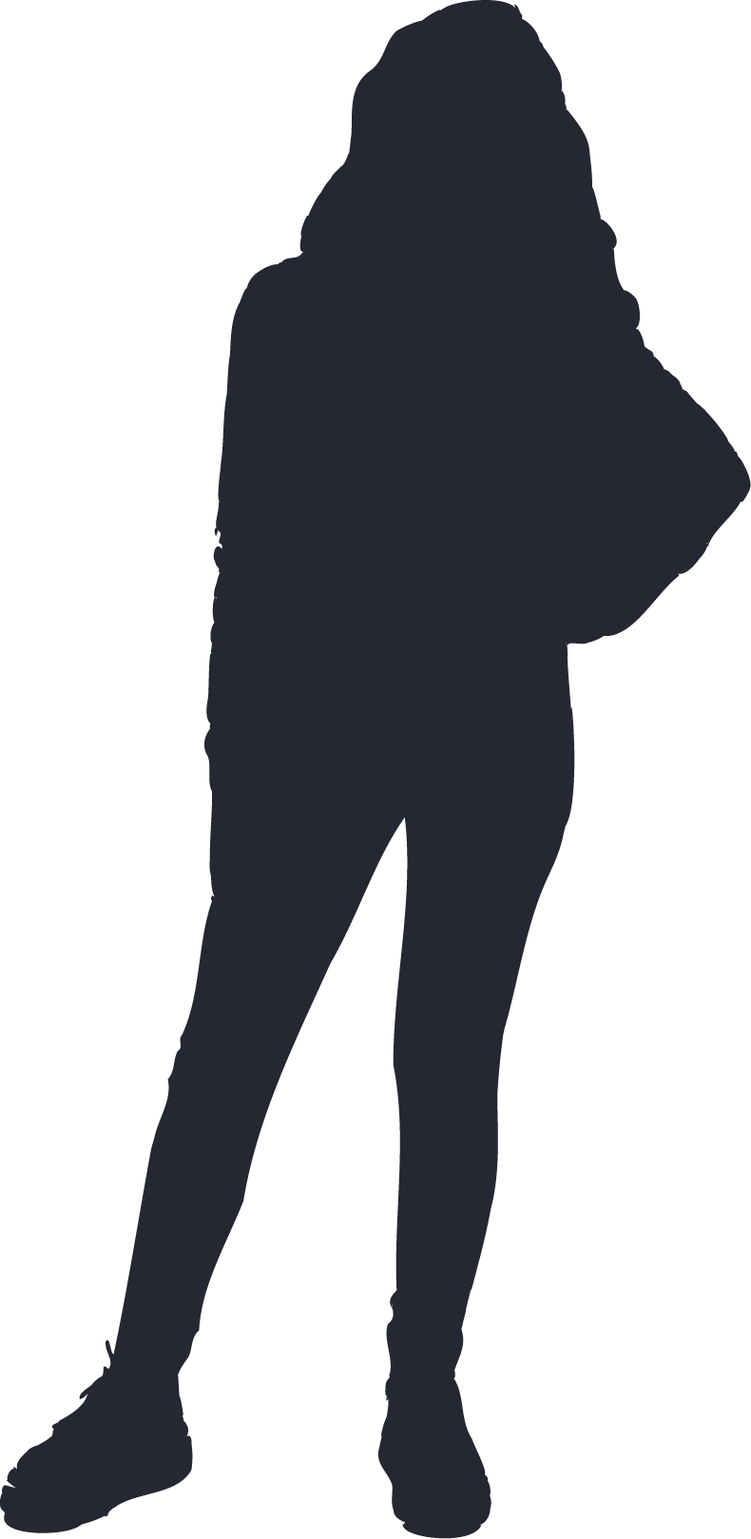
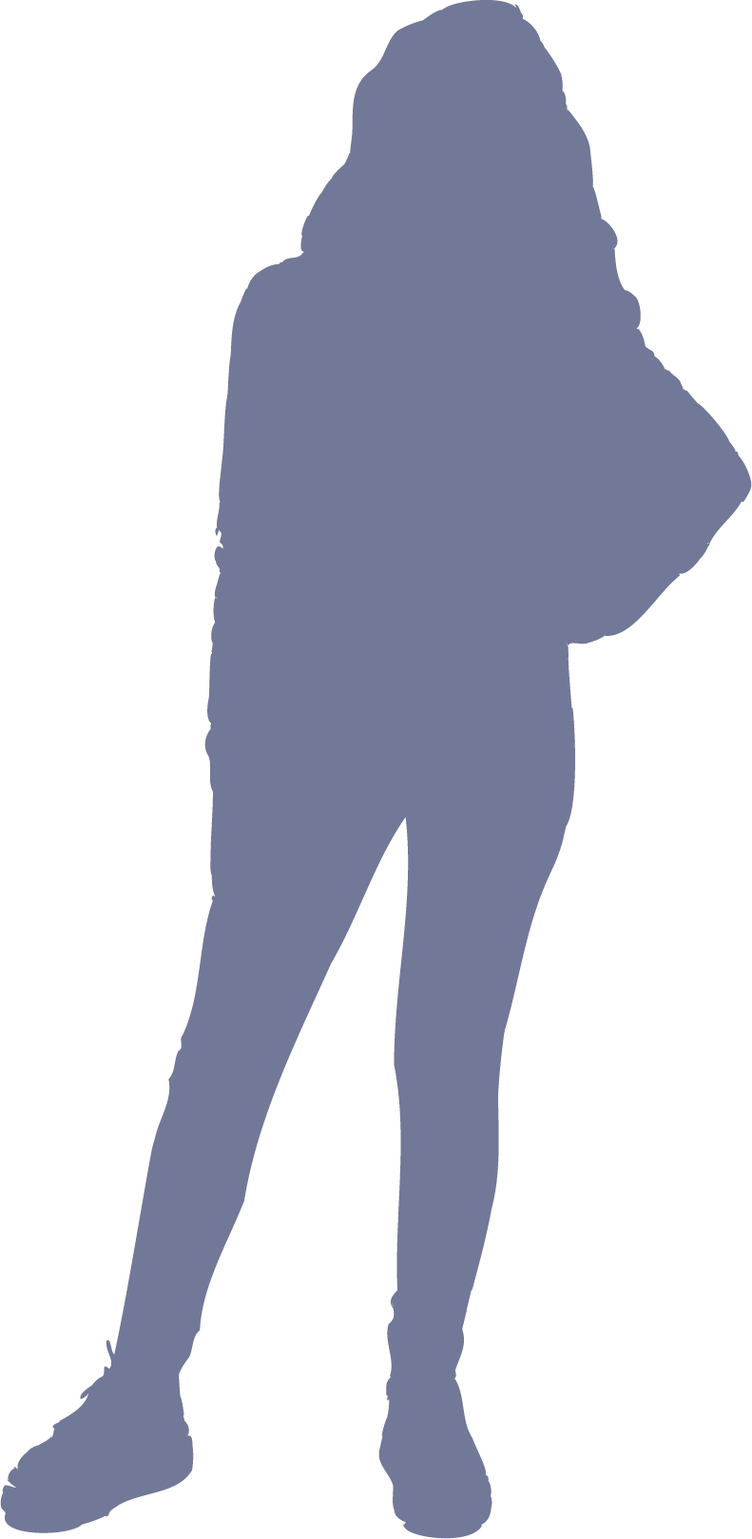
Botton dark mode vector y color sombra

diff --git a/master.html b/master.html
@@ -18,12 +18,19 @@
         <div class="border-dm">
             <div class="cover-dm">
                 <div class="button-vector">
-                    <svg class="vector" width="48" height="48" viewBox="0 0 48 48" fill="none"
+                    <svg class="vector moon" width="48" height="48" viewBox="0 0 48 48" fill="none"
                         xmlns="http://www.w3.org/2000/svg">
                         <g id="moon">
                             <path id="Vector"
                                 d="M36.0882 9.17485L31.092 13.0516L32.889 19.1665L27.6953 15.5495L22.5016 19.1665L24.2987 13.0516L19.3025 9.17485L25.6021 8.995L27.6953 3L29.7886 8.995L36.0882 9.17485ZM43 22.9833L39.7613 25.4813L40.9265 29.438L37.5693 27.0999L34.2122 29.438L35.3773 25.4813L32.1386 22.9833L36.2067 22.8834L37.5693 18.9867L38.9319 22.8834L43 22.9833ZM38.4975 32.8751C40.1365 32.7152 41.8941 35.0733 40.8475 36.572C40.2155 37.4713 39.5441 38.3106 38.7147 39.1099C30.9932 46.9634 18.4928 46.9634 10.7911 39.1099C3.06964 31.3164 3.06964 18.647 10.7911 10.8535C11.581 10.0541 12.4104 9.33472 13.2991 8.69525C14.7802 7.63614 17.1104 9.41465 16.9524 11.0733C16.4193 16.7885 18.3151 22.7236 22.6596 27.0999C26.9844 31.4963 32.8298 33.4147 38.4975 32.8751ZM35.2588 36.9117C29.6701 36.592 24.1407 34.254 19.8554 29.9775C15.5701 25.6012 13.2793 19.9858 12.9634 14.3505C7.41419 20.6253 7.63141 30.2573 13.5755 36.2923C19.5394 42.3072 29.0579 42.5271 35.2588 36.9117Z"
-                                fill="black" />
+                                fill="currentcolor" />
+                        </g>
+                    </svg>
+                    <svg class="vector sun" width="48" height="48" viewBox="0 0 48 48" fill="none" xmlns="http://www.w3.org/2000/svg">
+                        <g id="sun">
+                            <path id="Vector"
+                                d="M9.2042 36.1517C8.46476 36.8987 8.46643 38.1024 9.20796 38.8473C9.95428 39.597 11.1674 39.5987 11.9158 38.851L12.6433 38.1243C13.391 37.3774 13.3927 36.1661 12.6471 35.4172C11.8967 34.6633 10.6759 34.6651 9.92764 35.4209L9.2042 36.1517ZM22.0909 43.0909C22.0909 44.1453 23.1747 45 24.2291 45C25.2835 45 25.9091 44.1453 25.9091 43.0909V41.2516C25.9091 40.1972 25.0544 39.3425 24 39.3425C22.9456 39.3425 22.0909 40.1972 22.0909 41.2516V43.0909ZM24 12.4931C20.9621 12.4931 18.0486 13.7055 15.9004 15.8634C13.7523 18.0214 12.5455 20.9482 12.5455 24C12.5455 27.0518 13.7523 29.9786 15.9004 32.1366C18.0486 34.2945 20.9621 35.5068 24 35.5068C27.0379 35.5068 29.9514 34.2945 32.0996 32.1366C34.2477 29.9786 35.4545 27.0518 35.4545 24C35.4545 17.6329 30.3191 12.4931 24 12.4931ZM39.2727 24C39.2727 25.0592 40.1314 25.9178 41.1905 25.9178H43.0822C44.1414 25.9178 45 25.0592 45 24C45 22.9408 44.1414 22.0822 43.0822 22.0822H41.1905C40.1314 22.0822 39.2727 22.9408 39.2727 24ZM35.3529 35.4172C34.6073 36.1661 34.609 37.3774 35.3567 38.1243L36.0842 38.851C36.8326 39.5987 38.0457 39.597 38.792 38.8473C39.5336 38.1024 39.5352 36.8987 38.7958 36.1517L38.0724 35.4209C37.3241 34.665 36.1033 34.6633 35.3529 35.4172ZM38.7958 11.8483C39.5352 11.1013 39.5336 9.89764 38.792 9.15273C38.0457 8.403 36.8326 8.40131 36.0842 9.14896L35.3567 9.87572C34.609 10.6226 34.6073 11.8339 35.3529 12.5828C36.1033 13.3366 37.3241 13.3349 38.0724 12.5791L38.7958 11.8483ZM25.9091 4.90909C25.9091 3.85473 25.0544 3 24 3C22.9456 3 22.0909 3.85473 22.0909 4.90909V6.74844C22.0909 7.8028 22.9456 8.65753 24 8.65753C25.0544 8.65753 25.9091 7.8028 25.9091 6.74844V4.90909ZM8.72727 24C8.72727 22.9408 7.86864 22.0822 6.80946 22.0822H4.91781C3.85863 22.0822 3 22.9408 3 24C3 25.0592 3.85863 25.9178 4.91781 25.9178H6.80947C7.86864 25.9178 8.72727 25.0592 8.72727 24ZM12.6471 12.5828C13.3927 11.8339 13.391 10.6226 12.6433 9.87572L11.9158 9.14896C11.1674 8.40131 9.95428 8.403 9.20796 9.15273C8.46643 9.89764 8.46476 11.1013 9.20421 11.8483L9.92764 12.5791C10.6759 13.3349 11.8967 13.3366 12.6471 12.5828Z"
+                                fill="currentcolor" />
                         </g>
                     </svg>
                 </div>
@@ -59,10 +66,10 @@
                                 xmlns="http://www.w3.org/2000/svg">
                                 <path fill-rule="evenodd" clip-rule="evenodd"
                                     d="M24.719 6.95411C24.3259 6.54738 23.674 6.54738 23.2809 6.9541L19.5872 10.7759C19.1175 11.2618 18.4707 11.5362 17.7948 11.5362H12.5362C11.984 11.5362 11.5362 11.984 11.5362 12.5362V17.7948C11.5362 18.4707 11.2618 19.1175 10.7759 19.5872L6.9541 23.281C6.54738 23.674 6.54738 24.326 6.9541 24.7191L10.7759 28.4128C11.2618 28.8825 11.5362 29.5293 11.5362 30.2052V35.4638C11.5362 36.016 11.984 36.4638 12.5362 36.4638H17.7948C18.4707 36.4638 19.1175 36.7382 19.5872 37.2241L23.2809 41.0459C23.674 41.4526 24.3259 41.4526 24.719 41.0459L28.4128 37.2241C28.8824 36.7382 29.5293 36.4638 30.2052 36.4638H35.4638C36.016 36.4638 36.4638 36.016 36.4638 35.4638V30.2052C36.4638 29.5293 36.7382 28.8824 37.2242 28.4128L41.0459 24.7191C41.4526 24.326 41.4526 23.6741 41.0459 23.281L37.2242 19.5872C36.7382 19.1176 36.4638 18.4707 36.4638 17.7948V12.5362C36.4638 11.984 36.016 11.5362 35.4638 11.5362H30.2052C29.5293 11.5362 28.8824 11.2618 28.4128 10.7759L24.719 6.95411ZM22.2076 3.76039C23.1875 2.74654 24.8125 2.74654 25.7924 3.76039L30.4167 8.54494H36.9623C38.339 8.54494 39.4551 9.66099 39.4551 11.0377V17.5833L44.2396 22.2076C45.2535 23.1875 45.2535 24.8125 44.2396 25.7924L39.4551 30.4167V36.9623C39.4551 38.339 38.339 39.4551 36.9623 39.4551H30.4167L25.7924 44.2396C24.8125 45.2535 23.1875 45.2535 22.2076 44.2396L17.5833 39.4551H11.0377C9.66099 39.4551 8.54494 38.339 8.54494 36.9623V30.4167L3.76039 25.7924C2.74654 24.8125 2.74654 23.1875 3.76039 22.2076L8.54494 17.5833V11.0377C8.54494 9.66098 9.66099 8.54494 11.0377 8.54494H17.5833L22.2076 3.76039Z"
-                                    fill="black" />
+                                    fill="currentcolor" />
                                 <path fill-rule="evenodd" clip-rule="evenodd"
                                     d="M14.5275 24C14.5275 18.7685 18.7685 14.5275 24 14.5275C29.2315 14.5275 33.4725 18.7685 33.4725 24C33.4725 29.2315 29.2315 33.4725 24 33.4725C18.7685 33.4725 14.5275 29.2315 14.5275 24ZM24 17.5188C20.4206 17.5188 17.5188 20.4206 17.5188 24C17.5188 27.5794 20.4206 30.4812 24 30.4812C27.5794 30.4812 30.4812 27.5794 30.4812 24C30.4812 20.4206 27.5794 17.5188 24 17.5188Z"
-                                    fill="black" />
+                                    fill="currentcolor" />
                             </svg>
                             <p class="texts tipo-Raleway">Managament</p>
                         </div>
@@ -78,17 +85,17 @@
                                     xmlns="http://www.w3.org/2000/svg">
                                     <path fill-rule="evenodd" clip-rule="evenodd"
                                         d="M24.719 6.95411C24.3259 6.54738 23.674 6.54738 23.2809 6.9541L19.5872 10.7759C19.1175 11.2618 18.4707 11.5362 17.7948 11.5362H12.5362C11.984 11.5362 11.5362 11.984 11.5362 12.5362V17.7948C11.5362 18.4707 11.2618 19.1175 10.7759 19.5872L6.9541 23.281C6.54738 23.674 6.54738 24.326 6.9541 24.7191L10.7759 28.4128C11.2618 28.8825 11.5362 29.5293 11.5362 30.2052V35.4638C11.5362 36.016 11.984 36.4638 12.5362 36.4638H17.7948C18.4707 36.4638 19.1175 36.7382 19.5872 37.2241L23.2809 41.0459C23.674 41.4526 24.3259 41.4526 24.719 41.0459L28.4128 37.2241C28.8824 36.7382 29.5293 36.4638 30.2052 36.4638H35.4638C36.016 36.4638 36.4638 36.016 36.4638 35.4638V30.2052C36.4638 29.5293 36.7382 28.8824 37.2242 28.4128L41.0459 24.7191C41.4526 24.326 41.4526 23.6741 41.0459 23.281L37.2242 19.5872C36.7382 19.1176 36.4638 18.4707 36.4638 17.7948V12.5362C36.4638 11.984 36.016 11.5362 35.4638 11.5362H30.2052C29.5293 11.5362 28.8824 11.2618 28.4128 10.7759L24.719 6.95411ZM22.2076 3.76039C23.1875 2.74654 24.8125 2.74654 25.7924 3.76039L30.4167 8.54494H36.9623C38.339 8.54494 39.4551 9.66099 39.4551 11.0377V17.5833L44.2396 22.2076C45.2535 23.1875 45.2535 24.8125 44.2396 25.7924L39.4551 30.4167V36.9623C39.4551 38.339 38.339 39.4551 36.9623 39.4551H30.4167L25.7924 44.2396C24.8125 45.2535 23.1875 45.2535 22.2076 44.2396L17.5833 39.4551H11.0377C9.66099 39.4551 8.54494 38.339 8.54494 36.9623V30.4167L3.76039 25.7924C2.74654 24.8125 2.74654 23.1875 3.76039 22.2076L8.54494 17.5833V11.0377C8.54494 9.66098 9.66099 8.54494 11.0377 8.54494H17.5833L22.2076 3.76039Z"
-                                        fill="black" />
+                                        fill="currentcolor" />
                                     <path fill-rule="evenodd" clip-rule="evenodd"
                                         d="M14.5275 24C14.5275 18.7685 18.7685 14.5275 24 14.5275C29.2315 14.5275 33.4725 18.7685 33.4725 24C33.4725 29.2315 29.2315 33.4725 24 33.4725C18.7685 33.4725 14.5275 29.2315 14.5275 24ZM24 17.5188C20.4206 17.5188 17.5188 20.4206 17.5188 24C17.5188 27.5794 20.4206 30.4812 24 30.4812C27.5794 30.4812 30.4812 27.5794 30.4812 24C30.4812 20.4206 27.5794 17.5188 24 17.5188Z"
-                                        fill="black" />
+                                        fill="currentcolor" />
                                 </svg>
                                 <h3 class="text-modal tipo-Raleway">Managament</h3>
                                 <label for="modal-checkbox-m">
-                                    <svg class="close" width="48" height="48" viewBox="0 0 48 48" fill="#ADB0C2"
+                                    <svg class="close" width="48" height="48" viewBox="0 0 48 48"
                                         xmlns="http://www.w3.org/2000/svg">
                                         <path
-                                            d="M24 3C35.613 3 45 12.387 45 24C45 35.613 35.613 45 24 45C12.387 45 3 35.613 3 24C3 12.387 12.387 3 24 3ZM33.0195 14.9805C32.2018 14.1628 30.8762 14.1628 30.0585 14.9805L24.7071 20.3319C24.3166 20.7224 23.6834 20.7224 23.2929 20.3319L17.9415 14.9805C17.1238 14.1628 15.7982 14.1628 14.9805 14.9805V14.9805C14.1628 15.7982 14.1628 17.1238 14.9805 17.9415L20.3319 23.2929C20.7224 23.6834 20.7224 24.3166 20.3319 24.7071L14.9805 30.0585C14.1628 30.8762 14.1628 32.2018 14.9805 33.0195V33.0195C15.7982 33.8372 17.1238 33.8372 17.9415 33.0195L23.2929 27.6681C23.6834 27.2776 24.3166 27.2776 24.7071 27.6681L30.0585 33.0195C30.8762 33.8372 32.2018 33.8372 33.0195 33.0195V33.0195C33.8372 32.2018 33.8372 30.8762 33.0195 30.0585L27.6681 24.7071C27.2776 24.3166 27.2776 23.6834 27.6681 23.2929L33.0195 17.9415C33.8372 17.1238 33.8372 15.7982 33.0195 14.9805V14.9805Z" />
+                                            d="M24 3C35.613 3 45 12.387 45 24C45 35.613 35.613 45 24 45C12.387 45 3 35.613 3 24C3 12.387 12.387 3 24 3ZM33.0195 14.9805C32.2018 14.1628 30.8762 14.1628 30.0585 14.9805L24.7071 20.3319C24.3166 20.7224 23.6834 20.7224 23.2929 20.3319L17.9415 14.9805C17.1238 14.1628 15.7982 14.1628 14.9805 14.9805V14.9805C14.1628 15.7982 14.1628 17.1238 14.9805 17.9415L20.3319 23.2929C20.7224 23.6834 20.7224 24.3166 20.3319 24.7071L14.9805 30.0585C14.1628 30.8762 14.1628 32.2018 14.9805 33.0195V33.0195C15.7982 33.8372 17.1238 33.8372 17.9415 33.0195L23.2929 27.6681C23.6834 27.2776 24.3166 27.2776 24.7071 27.6681L30.0585 33.0195C30.8762 33.8372 32.2018 33.8372 33.0195 33.0195V33.0195C33.8372 32.2018 33.8372 30.8762 33.0195 30.0585L27.6681 24.7071C27.2776 24.3166 27.2776 23.6834 27.6681 23.2929L33.0195 17.9415C33.8372 17.1238 33.8372 15.7982 33.0195 14.9805V14.9805Z" fill="currentcolor"/>
                                     </svg>
                                 </label>
                             </div>
@@ -147,16 +154,16 @@
                                 xmlns="http://www.w3.org/2000/svg">
                                 <path
                                     d="M31.3163 16.1965C32.3074 16.1965 33.1109 17.0039 33.1109 18C33.1109 18.9961 32.3074 19.8035 31.3163 19.8035H18.1559C17.1648 19.8035 16.3613 18.9961 16.3613 18C16.3613 17.0039 17.1648 16.1965 18.1559 16.1965H31.3163Z"
-                                    fill="black" />
+                                    fill="currentcolor" />
                                 <path fill-rule="evenodd" clip-rule="evenodd"
                                     d="M6.33689 30.7844C0.958203 17.5165 10.6708 3 24.9267 3H25.6958C36.3572 3 45 11.6858 45 22.4002C45 34.3294 35.3773 44 23.507 44H4.7947C4.03317 44 3.35457 43.517 3.10182 42.7951C2.84908 42.0731 3.07723 41.2695 3.67099 40.7903L8.38837 36.983C8.59463 36.8165 8.6676 36.5336 8.56779 36.2874L6.33689 30.7844ZM24.9267 6.60704C13.2198 6.60704 5.24386 18.5279 9.66082 29.4235L11.8917 34.9265C12.5904 36.65 12.0797 38.63 10.6358 39.7954L9.89535 40.393H23.507C33.395 40.393 41.4108 32.3373 41.4108 22.4002C41.4108 13.6779 34.3749 6.60704 25.6958 6.60704H24.9267Z"
-                                    fill="black" />
+                                    fill="currentcolor" />
                                 <path
                                     d="M31.455 22.8035C32.4461 22.8035 33.2496 23.611 33.2496 24.607C33.2496 25.6031 32.4461 26.4106 31.455 26.4106H18.2946C17.3035 26.4106 16.5 25.6031 16.5 24.607C16.5 23.611 17.3035 22.8035 18.2946 22.8035H31.455Z"
-                                    fill="black" />
+                                    fill="currentcolor" />
                                 <path
                                     d="M31.455 29.4235C32.4461 29.4235 33.2496 30.2309 33.2496 31.227C33.2496 32.223 32.4461 33.0305 31.455 33.0305H18.2946C17.3035 33.0305 16.5 32.223 16.5 31.227C16.5 30.2309 17.3035 29.4235 18.2946 29.4235H31.455Z"
-                                    fill="black" />
+                                    fill="currentcolor" />
                             </svg>
 
                             <p class="texts tipo-Raleway">Communication</p>
@@ -173,24 +180,24 @@
                                     xmlns="http://www.w3.org/2000/svg">
                                     <path
                                         d="M31.3163 16.1965C32.3074 16.1965 33.1109 17.0039 33.1109 18C33.1109 18.9961 32.3074 19.8035 31.3163 19.8035H18.1559C17.1648 19.8035 16.3613 18.9961 16.3613 18C16.3613 17.0039 17.1648 16.1965 18.1559 16.1965H31.3163Z"
-                                        fill="black" />
+                                        fill="currentcolor" />
                                     <path fill-rule="evenodd" clip-rule="evenodd"
                                         d="M6.33689 30.7844C0.958203 17.5165 10.6708 3 24.9267 3H25.6958C36.3572 3 45 11.6858 45 22.4002C45 34.3294 35.3773 44 23.507 44H4.7947C4.03317 44 3.35457 43.517 3.10182 42.7951C2.84908 42.0731 3.07723 41.2695 3.67099 40.7903L8.38837 36.983C8.59463 36.8165 8.6676 36.5336 8.56779 36.2874L6.33689 30.7844ZM24.9267 6.60704C13.2198 6.60704 5.24386 18.5279 9.66082 29.4235L11.8917 34.9265C12.5904 36.65 12.0797 38.63 10.6358 39.7954L9.89535 40.393H23.507C33.395 40.393 41.4108 32.3373 41.4108 22.4002C41.4108 13.6779 34.3749 6.60704 25.6958 6.60704H24.9267Z"
-                                        fill="black" />
+                                        fill="currentcolor" />
                                     <path
                                         d="M31.455 22.8035C32.4461 22.8035 33.2496 23.611 33.2496 24.607C33.2496 25.6031 32.4461 26.4106 31.455 26.4106H18.2946C17.3035 26.4106 16.5 25.6031 16.5 24.607C16.5 23.611 17.3035 22.8035 18.2946 22.8035H31.455Z"
-                                        fill="black" />
+                                        fill="currentcolor" />
                                     <path
                                         d="M31.455 29.4235C32.4461 29.4235 33.2496 30.2309 33.2496 31.227C33.2496 32.223 32.4461 33.0305 31.455 33.0305H18.2946C17.3035 33.0305 16.5 32.223 16.5 31.227C16.5 30.2309 17.3035 29.4235 18.2946 29.4235H31.455Z"
-                                        fill="black" />
+                                        fill="currentcolor" />
                                 </svg>
 
                                 <h3 class="text-modal tipo-Raleway">Communication</h3>
                                 <label for="modal-checkbox-c">
-                                    <svg class="close" width="48" height="48" viewBox="0 0 48 48" fill="#ADB0C2"
+                                    <svg class="close" width="48" height="48" viewBox="0 0 48 48"
                                         xmlns="http://www.w3.org/2000/svg">
                                         <path
-                                            d="M24 3C35.613 3 45 12.387 45 24C45 35.613 35.613 45 24 45C12.387 45 3 35.613 3 24C3 12.387 12.387 3 24 3ZM33.0195 14.9805C32.2018 14.1628 30.8762 14.1628 30.0585 14.9805L24.7071 20.3319C24.3166 20.7224 23.6834 20.7224 23.2929 20.3319L17.9415 14.9805C17.1238 14.1628 15.7982 14.1628 14.9805 14.9805V14.9805C14.1628 15.7982 14.1628 17.1238 14.9805 17.9415L20.3319 23.2929C20.7224 23.6834 20.7224 24.3166 20.3319 24.7071L14.9805 30.0585C14.1628 30.8762 14.1628 32.2018 14.9805 33.0195V33.0195C15.7982 33.8372 17.1238 33.8372 17.9415 33.0195L23.2929 27.6681C23.6834 27.2776 24.3166 27.2776 24.7071 27.6681L30.0585 33.0195C30.8762 33.8372 32.2018 33.8372 33.0195 33.0195V33.0195C33.8372 32.2018 33.8372 30.8762 33.0195 30.0585L27.6681 24.7071C27.2776 24.3166 27.2776 23.6834 27.6681 23.2929L33.0195 17.9415C33.8372 17.1238 33.8372 15.7982 33.0195 14.9805V14.9805Z" />
+                                            d="M24 3C35.613 3 45 12.387 45 24C45 35.613 35.613 45 24 45C12.387 45 3 35.613 3 24C3 12.387 12.387 3 24 3ZM33.0195 14.9805C32.2018 14.1628 30.8762 14.1628 30.0585 14.9805L24.7071 20.3319C24.3166 20.7224 23.6834 20.7224 23.2929 20.3319L17.9415 14.9805C17.1238 14.1628 15.7982 14.1628 14.9805 14.9805V14.9805C14.1628 15.7982 14.1628 17.1238 14.9805 17.9415L20.3319 23.2929C20.7224 23.6834 20.7224 24.3166 20.3319 24.7071L14.9805 30.0585C14.1628 30.8762 14.1628 32.2018 14.9805 33.0195V33.0195C15.7982 33.8372 17.1238 33.8372 17.9415 33.0195L23.2929 27.6681C23.6834 27.2776 24.3166 27.2776 24.7071 27.6681L30.0585 33.0195C30.8762 33.8372 32.2018 33.8372 33.0195 33.0195V33.0195C33.8372 32.2018 33.8372 30.8762 33.0195 30.0585L27.6681 24.7071C27.2776 24.3166 27.2776 23.6834 27.6681 23.2929L33.0195 17.9415C33.8372 17.1238 33.8372 15.7982 33.0195 14.9805V14.9805Z" fill="currentcolor"/>
                                     </svg>
                                 </label>
                             </div>
@@ -243,7 +250,7 @@
                                 xmlns="http://www.w3.org/2000/svg">
                                 <path fill-rule="evenodd" clip-rule="evenodd"
                                     d="M24 6L39.2583 6.43549C41.9544 6.51244 44.1844 8.5785 44.491 11.2835C45.1697 17.2713 45.1697 23.3177 44.491 29.3055C44.1844 32.0105 41.9544 34.0765 39.2583 34.1535L27.6711 34.4842V38.8236H34.4888C35.3578 38.8236 36.0622 39.5347 36.0622 40.4118C36.0622 41.2889 35.3578 42 34.4888 42H13.5112C12.6423 42 11.9379 41.2889 11.9379 40.4118C11.9379 39.5347 12.6423 38.8236 13.5112 38.8236H20.3289V34.4842L8.74165 34.1535C6.04557 34.0765 3.81561 32.0105 3.50901 29.3055C2.83033 23.3177 2.83033 17.2713 3.50901 11.2835C3.81561 8.5785 6.04557 6.51244 8.74165 6.43549L24 6ZM24 9.17768L8.83059 9.61064C7.69946 9.64292 6.76389 10.5097 6.63526 11.6446C5.98377 17.3925 5.98377 23.1965 6.63526 28.9444C6.76389 30.0793 7.69946 30.9461 8.83059 30.9784L24 31.4113L39.1694 30.9784C40.3005 30.9461 41.2361 30.0793 41.3647 28.9444C42.0162 23.1965 42.0162 17.3925 41.3647 11.6446C41.2361 10.5097 40.3005 9.64292 39.1694 9.61064L24 9.17768Z"
-                                    fill="black" />
+                                    fill="currentcolor" />
                             </svg>
                             <p class="texts tipo-Raleway">Technology</p>
                         </div>
@@ -259,14 +266,14 @@
                                     xmlns="http://www.w3.org/2000/svg">
                                     <path fill-rule="evenodd" clip-rule="evenodd"
                                         d="M24 6L39.2583 6.43549C41.9544 6.51244 44.1844 8.5785 44.491 11.2835C45.1697 17.2713 45.1697 23.3177 44.491 29.3055C44.1844 32.0105 41.9544 34.0765 39.2583 34.1535L27.6711 34.4842V38.8236H34.4888C35.3578 38.8236 36.0622 39.5347 36.0622 40.4118C36.0622 41.2889 35.3578 42 34.4888 42H13.5112C12.6423 42 11.9379 41.2889 11.9379 40.4118C11.9379 39.5347 12.6423 38.8236 13.5112 38.8236H20.3289V34.4842L8.74165 34.1535C6.04557 34.0765 3.81561 32.0105 3.50901 29.3055C2.83033 23.3177 2.83033 17.2713 3.50901 11.2835C3.81561 8.5785 6.04557 6.51244 8.74165 6.43549L24 6ZM24 9.17768L8.83059 9.61064C7.69946 9.64292 6.76389 10.5097 6.63526 11.6446C5.98377 17.3925 5.98377 23.1965 6.63526 28.9444C6.76389 30.0793 7.69946 30.9461 8.83059 30.9784L24 31.4113L39.1694 30.9784C40.3005 30.9461 41.2361 30.0793 41.3647 28.9444C42.0162 23.1965 42.0162 17.3925 41.3647 11.6446C41.2361 10.5097 40.3005 9.64292 39.1694 9.61064L24 9.17768Z"
-                                        fill="black" />
+                                        fill="currentcolor" />
                                 </svg>
                                 <h3 class="text-modal tipo-Raleway">Technology</h3>
                                 <label for="modal-checkbox-t">
-                                    <svg class="close" width="48" height="48" viewBox="0 0 48 48" fill="#ADB0C2"
+                                    <svg class="close" width="48" height="48" viewBox="0 0 48 48"
                                         xmlns="http://www.w3.org/2000/svg">
                                         <path
-                                            d="M24 3C35.613 3 45 12.387 45 24C45 35.613 35.613 45 24 45C12.387 45 3 35.613 3 24C3 12.387 12.387 3 24 3ZM33.0195 14.9805C32.2018 14.1628 30.8762 14.1628 30.0585 14.9805L24.7071 20.3319C24.3166 20.7224 23.6834 20.7224 23.2929 20.3319L17.9415 14.9805C17.1238 14.1628 15.7982 14.1628 14.9805 14.9805V14.9805C14.1628 15.7982 14.1628 17.1238 14.9805 17.9415L20.3319 23.2929C20.7224 23.6834 20.7224 24.3166 20.3319 24.7071L14.9805 30.0585C14.1628 30.8762 14.1628 32.2018 14.9805 33.0195V33.0195C15.7982 33.8372 17.1238 33.8372 17.9415 33.0195L23.2929 27.6681C23.6834 27.2776 24.3166 27.2776 24.7071 27.6681L30.0585 33.0195C30.8762 33.8372 32.2018 33.8372 33.0195 33.0195V33.0195C33.8372 32.2018 33.8372 30.8762 33.0195 30.0585L27.6681 24.7071C27.2776 24.3166 27.2776 23.6834 27.6681 23.2929L33.0195 17.9415C33.8372 17.1238 33.8372 15.7982 33.0195 14.9805V14.9805Z" />
+                                            d="M24 3C35.613 3 45 12.387 45 24C45 35.613 35.613 45 24 45C12.387 45 3 35.613 3 24C3 12.387 12.387 3 24 3ZM33.0195 14.9805C32.2018 14.1628 30.8762 14.1628 30.0585 14.9805L24.7071 20.3319C24.3166 20.7224 23.6834 20.7224 23.2929 20.3319L17.9415 14.9805C17.1238 14.1628 15.7982 14.1628 14.9805 14.9805V14.9805C14.1628 15.7982 14.1628 17.1238 14.9805 17.9415L20.3319 23.2929C20.7224 23.6834 20.7224 24.3166 20.3319 24.7071L14.9805 30.0585C14.1628 30.8762 14.1628 32.2018 14.9805 33.0195V33.0195C15.7982 33.8372 17.1238 33.8372 17.9415 33.0195L23.2929 27.6681C23.6834 27.2776 24.3166 27.2776 24.7071 27.6681L30.0585 33.0195C30.8762 33.8372 32.2018 33.8372 33.0195 33.0195V33.0195C33.8372 32.2018 33.8372 30.8762 33.0195 30.0585L27.6681 24.7071C27.2776 24.3166 27.2776 23.6834 27.6681 23.2929L33.0195 17.9415C33.8372 17.1238 33.8372 15.7982 33.0195 14.9805V14.9805Z" fill="currentcolor"/>
                                     </svg>
                                 </label>
                             </div>
@@ -337,7 +344,7 @@
                                 xmlns="http://www.w3.org/2000/svg">
                                 <path fill-rule="evenodd" clip-rule="evenodd"
                                     d="M25.7789 12.2047C22.8195 12.2047 20.2596 14.1326 19.0522 16.9345C18.7276 17.6879 17.9399 18.0351 17.2434 17.7318C16.3067 17.3238 15.2864 17.0992 14.2159 17.0992C9.60294 17.0992 5.86343 21.2845 5.86343 26.4472C5.86343 31.61 9.60294 35.7953 14.2159 35.7953H36.4525C39.5917 35.7953 42.1366 32.9471 42.1366 29.4337C42.1366 25.9203 39.5917 23.0721 36.4525 23.0721C35.9418 23.0721 35.4488 23.1472 34.981 23.287C34.5225 23.424 34.0331 23.2979 33.6743 22.9501C33.3155 22.6024 33.1341 22.0782 33.1898 21.5507C33.2242 21.2255 33.2419 20.8941 33.2419 20.5573C33.2419 15.9443 29.9006 12.2047 25.7789 12.2047ZM17.0896 14.3107C18.9255 11.1182 22.1301 9 25.7789 9C31.2777 9 35.7726 13.8102 36.0877 19.876C36.2087 19.8703 36.3304 19.8674 36.4525 19.8674C41.1732 19.8674 45 24.1504 45 29.4337C45 34.717 41.1732 39 36.4525 39H14.2159C8.02151 39 3 33.3799 3 26.4472C3 19.5145 8.02151 13.8945 14.2159 13.8945C15.2079 13.8945 16.1713 14.039 17.0896 14.3107Z"
-                                    fill="black" />
+                                    fill="currentcolor" />
                             </svg>
                             <p class="texts tipo-Raleway">Soft</p>
                         </div>
@@ -353,14 +360,14 @@
                                     xmlns="http://www.w3.org/2000/svg">
                                     <path fill-rule="evenodd" clip-rule="evenodd"
                                         d="M25.7789 12.2047C22.8195 12.2047 20.2596 14.1326 19.0522 16.9345C18.7276 17.6879 17.9399 18.0351 17.2434 17.7318C16.3067 17.3238 15.2864 17.0992 14.2159 17.0992C9.60294 17.0992 5.86343 21.2845 5.86343 26.4472C5.86343 31.61 9.60294 35.7953 14.2159 35.7953H36.4525C39.5917 35.7953 42.1366 32.9471 42.1366 29.4337C42.1366 25.9203 39.5917 23.0721 36.4525 23.0721C35.9418 23.0721 35.4488 23.1472 34.981 23.287C34.5225 23.424 34.0331 23.2979 33.6743 22.9501C33.3155 22.6024 33.1341 22.0782 33.1898 21.5507C33.2242 21.2255 33.2419 20.8941 33.2419 20.5573C33.2419 15.9443 29.9006 12.2047 25.7789 12.2047ZM17.0896 14.3107C18.9255 11.1182 22.1301 9 25.7789 9C31.2777 9 35.7726 13.8102 36.0877 19.876C36.2087 19.8703 36.3304 19.8674 36.4525 19.8674C41.1732 19.8674 45 24.1504 45 29.4337C45 34.717 41.1732 39 36.4525 39H14.2159C8.02151 39 3 33.3799 3 26.4472C3 19.5145 8.02151 13.8945 14.2159 13.8945C15.2079 13.8945 16.1713 14.039 17.0896 14.3107Z"
-                                        fill="black" />
+                                        fill="currentcolor" />
                                 </svg>
                                 <h3 class="text-modal tipo-Raleway">Soft</h3>
                                 <label for="modal-checkbox-s">
-                                    <svg class="close" width="48" height="48" viewBox="0 0 48 48" fill="#ADB0C2"
+                                    <svg class="close" width="48" height="48" viewBox="0 0 48 48"
                                         xmlns="http://www.w3.org/2000/svg">
                                         <path
-                                            d="M24 3C35.613 3 45 12.387 45 24C45 35.613 35.613 45 24 45C12.387 45 3 35.613 3 24C3 12.387 12.387 3 24 3ZM33.0195 14.9805C32.2018 14.1628 30.8762 14.1628 30.0585 14.9805L24.7071 20.3319C24.3166 20.7224 23.6834 20.7224 23.2929 20.3319L17.9415 14.9805C17.1238 14.1628 15.7982 14.1628 14.9805 14.9805V14.9805C14.1628 15.7982 14.1628 17.1238 14.9805 17.9415L20.3319 23.2929C20.7224 23.6834 20.7224 24.3166 20.3319 24.7071L14.9805 30.0585C14.1628 30.8762 14.1628 32.2018 14.9805 33.0195V33.0195C15.7982 33.8372 17.1238 33.8372 17.9415 33.0195L23.2929 27.6681C23.6834 27.2776 24.3166 27.2776 24.7071 27.6681L30.0585 33.0195C30.8762 33.8372 32.2018 33.8372 33.0195 33.0195V33.0195C33.8372 32.2018 33.8372 30.8762 33.0195 30.0585L27.6681 24.7071C27.2776 24.3166 27.2776 23.6834 27.6681 23.2929L33.0195 17.9415C33.8372 17.1238 33.8372 15.7982 33.0195 14.9805V14.9805Z" />
+                                            d="M24 3C35.613 3 45 12.387 45 24C45 35.613 35.613 45 24 45C12.387 45 3 35.613 3 24C3 12.387 12.387 3 24 3ZM33.0195 14.9805C32.2018 14.1628 30.8762 14.1628 30.0585 14.9805L24.7071 20.3319C24.3166 20.7224 23.6834 20.7224 23.2929 20.3319L17.9415 14.9805C17.1238 14.1628 15.7982 14.1628 14.9805 14.9805V14.9805C14.1628 15.7982 14.1628 17.1238 14.9805 17.9415L20.3319 23.2929C20.7224 23.6834 20.7224 24.3166 20.3319 24.7071L14.9805 30.0585C14.1628 30.8762 14.1628 32.2018 14.9805 33.0195V33.0195C15.7982 33.8372 17.1238 33.8372 17.9415 33.0195L23.2929 27.6681C23.6834 27.2776 24.3166 27.2776 24.7071 27.6681L30.0585 33.0195C30.8762 33.8372 32.2018 33.8372 33.0195 33.0195V33.0195C33.8372 32.2018 33.8372 30.8762 33.0195 30.0585L27.6681 24.7071C27.2776 24.3166 27.2776 23.6834 27.6681 23.2929L33.0195 17.9415C33.8372 17.1238 33.8372 15.7982 33.0195 14.9805V14.9805Z" fill="currentcolor"/>
                                     </svg>
                                 </label>
                             </div>

diff --git a/contact.html b/contact.html
@@ -65,7 +65,7 @@
                                 <g id="instagram">
                                     <path id="Vector"
                                         d="M16.65 6.5H31.35C36.95 6.5 41.5 11.05 41.5 16.65V31.35C41.5 34.0419 40.4306 36.6236 38.5271 38.5271C36.6236 40.4306 34.0419 41.5 31.35 41.5H16.65C11.05 41.5 6.5 36.95 6.5 31.35V16.65C6.5 13.9581 7.56937 11.3764 9.47287 9.47287C11.3764 7.56937 13.9581 6.5 16.65 6.5ZM16.3 10C14.6291 10 13.0267 10.6637 11.8452 11.8452C10.6637 13.0267 10 14.6291 10 16.3V31.7C10 35.1825 12.8175 38 16.3 38H31.7C33.3709 38 34.9733 37.3363 36.1548 36.1548C37.3363 34.9733 38 33.3709 38 31.7V16.3C38 12.8175 35.1825 10 31.7 10H16.3ZM33.1875 12.625C33.7677 12.625 34.3241 12.8555 34.7343 13.2657C35.1445 13.6759 35.375 14.2323 35.375 14.8125C35.375 15.3927 35.1445 15.9491 34.7343 16.3593C34.3241 16.7695 33.7677 17 33.1875 17C32.6073 17 32.0509 16.7695 31.6407 16.3593C31.2305 15.9491 31 15.3927 31 14.8125C31 14.2323 31.2305 13.6759 31.6407 13.2657C32.0509 12.8555 32.6073 12.625 33.1875 12.625ZM24 15.25C26.3206 15.25 28.5462 16.1719 30.1872 17.8128C31.8281 19.4538 32.75 21.6794 32.75 24C32.75 26.3206 31.8281 28.5462 30.1872 30.1872C28.5462 31.8281 26.3206 32.75 24 32.75C21.6794 32.75 19.4538 31.8281 17.8128 30.1872C16.1719 28.5462 15.25 26.3206 15.25 24C15.25 21.6794 16.1719 19.4538 17.8128 17.8128C19.4538 16.1719 21.6794 15.25 24 15.25ZM24 18.75C22.6076 18.75 21.2723 19.3031 20.2877 20.2877C19.3031 21.2723 18.75 22.6076 18.75 24C18.75 25.3924 19.3031 26.7277 20.2877 27.7123C21.2723 28.6969 22.6076 29.25 24 29.25C25.3924 29.25 26.7277 28.6969 27.7123 27.7123C28.6969 26.7277 29.25 25.3924 29.25 24C29.25 22.6076 28.6969 21.2723 27.7123 20.2877C26.7277 19.3031 25.3924 18.75 24 18.75Z"
-                                        fill="black" />
+                                        fill="currentcolor" />
                                 </g>
                             </svg>
                             <p class="text-rrss tipo-Raleway">Instagram</p>
@@ -79,7 +79,7 @@
                                 <g id="linkedin">
                                     <path id="Vector"
                                         d="M36.25 8.25C37.1783 8.25 38.0685 8.61875 38.7249 9.27513C39.3813 9.9315 39.75 10.8217 39.75 11.75V36.25C39.75 37.1783 39.3813 38.0685 38.7249 38.7249C38.0685 39.3813 37.1783 39.75 36.25 39.75H11.75C10.8217 39.75 9.9315 39.3813 9.27513 38.7249C8.61875 38.0685 8.25 37.1783 8.25 36.25V11.75C8.25 10.8217 8.61875 9.9315 9.27513 9.27513C9.9315 8.61875 10.8217 8.25 11.75 8.25H36.25ZM35.375 35.375V26.1C35.375 24.5869 34.7739 23.1359 33.704 22.066C32.6341 20.9961 31.1831 20.395 29.67 20.395C28.1825 20.395 26.45 21.305 25.61 22.67V20.7275H20.7275V35.375H25.61V26.7475C25.61 25.4 26.695 24.2975 28.0425 24.2975C28.6923 24.2975 29.3154 24.5556 29.7749 25.0151C30.2344 25.4746 30.4925 26.0977 30.4925 26.7475V35.375H35.375ZM15.04 17.98C15.8197 17.98 16.5675 17.6703 17.1189 17.1189C17.6703 16.5675 17.98 15.8197 17.98 15.04C17.98 13.4125 16.6675 12.0825 15.04 12.0825C14.2556 12.0825 13.5034 12.3941 12.9487 12.9487C12.3941 13.5034 12.0825 14.2556 12.0825 15.04C12.0825 16.6675 13.4125 17.98 15.04 17.98ZM17.4725 35.375V20.7275H12.625V35.375H17.4725Z"
-                                        fill="black" />
+                                        fill="currentcolor" />
                                 </g>
                             </svg>
                             <p class="text-rrss tipo-Raleway">Linkedin</p>

diff --git a/css/style.css b/css/style.css
@@ -115,8 +115,12 @@
       justify-self: center;
   height: 24px;
   width: 24px;
-  color: #727897;
+  color: #E8E9EE;
   margin-bottom: 1px;
+}
+
+.sun {
+  display: none;
 }
 
 .image-header {
@@ -594,6 +598,7 @@ a:link {
 .close {
   width: 30px;
   height: 30px;
+  color: #ADB0C2;
 }
 
 .skill-modal {
@@ -1788,6 +1793,18 @@ main {
             box-shadow: inset 1px 1px 3px #F6F7FA;
   }
 
+  .vector {
+    color: #727897;
+  }
+
+  .sun {
+    display: inline;
+  }
+
+  .moon {
+    display: none;
+  }
+
   .button-vector {
     background-color: #F0F1F4;
     -webkit-box-shadow: 3px 0px 6px #F0F1F4;
@@ -1817,6 +1834,10 @@ main {
     background-color: #727897;
   }
 
+  .vectors-contact {
+    color: #E8E9EE;
+  }
+
   .background {
     background-color: #E8E9EE;
   }
@@ -1843,6 +1864,10 @@ main {
   .skill-bar .skill-bar__interna-s {
     background-image: -webkit-gradient(linear, left top, right top, color-stop(20%, #126773), color-stop(60%, #198F9F), color-stop(80%, #69D8E7), color-stop(90%, #C1EFF5), color-stop(99%, #727897));
     background-image: linear-gradient(90deg, #126773 20%, #198F9F 60%, #69D8E7 80%, #C1EFF5 90%, #727897 99%);
+  }
+
+  .vectors {
+    color: #F0F1F4;
   }
 
   .h1 {

diff --git a/scss/site/_darkmode.scss b/scss/site/_darkmode.scss
@@ -7,6 +7,15 @@
         background-color: $gray-ultradark;
         box-shadow: inset 1px 1px 3px $white;
     }
+    .vector{
+        color: $gray-ultradark;
+    }
+    .sun{
+        display: inline;
+    }
+    .moon{
+        display: none;
+    }
     .button-vector{
         background-color: $gray-light;
         box-shadow: 3px 0px 6px $gray-light;
@@ -27,6 +36,9 @@
     .insta-c, .linke-c{
         background-color: $gray-ultradark;
     }
+    .vectors-contact{
+        color: $gray;
+    }
     .background{
         background-color: $gray;
     }
@@ -45,6 +57,9 @@
     }
     .skill-bar .skill-bar__interna-s {
         background-image: $blue-g-dark;
+    }
+    .vectors{
+        color: $gray-light;
     }
 
     //TEXT

diff --git a/scss/elements/_buttondarkmode.scss b/scss/elements/_buttondarkmode.scss
@@ -67,6 +67,10 @@
     justify-self: center;
     height: 24px;
     width: 24px;
-    color: $gray-ultradark;
+    color: $gray;
     margin-bottom: 1px;
+}
+
+.sun{
+    display: none;
 }

diff --git a/scss/elements/_modal.scss b/scss/elements/_modal.scss
@@ -115,6 +115,7 @@
 .close{
     width: 30px;
     height: 30px;
+    color: $gray-dark;
 }
 
 //BARRA DE LA SKILL//
